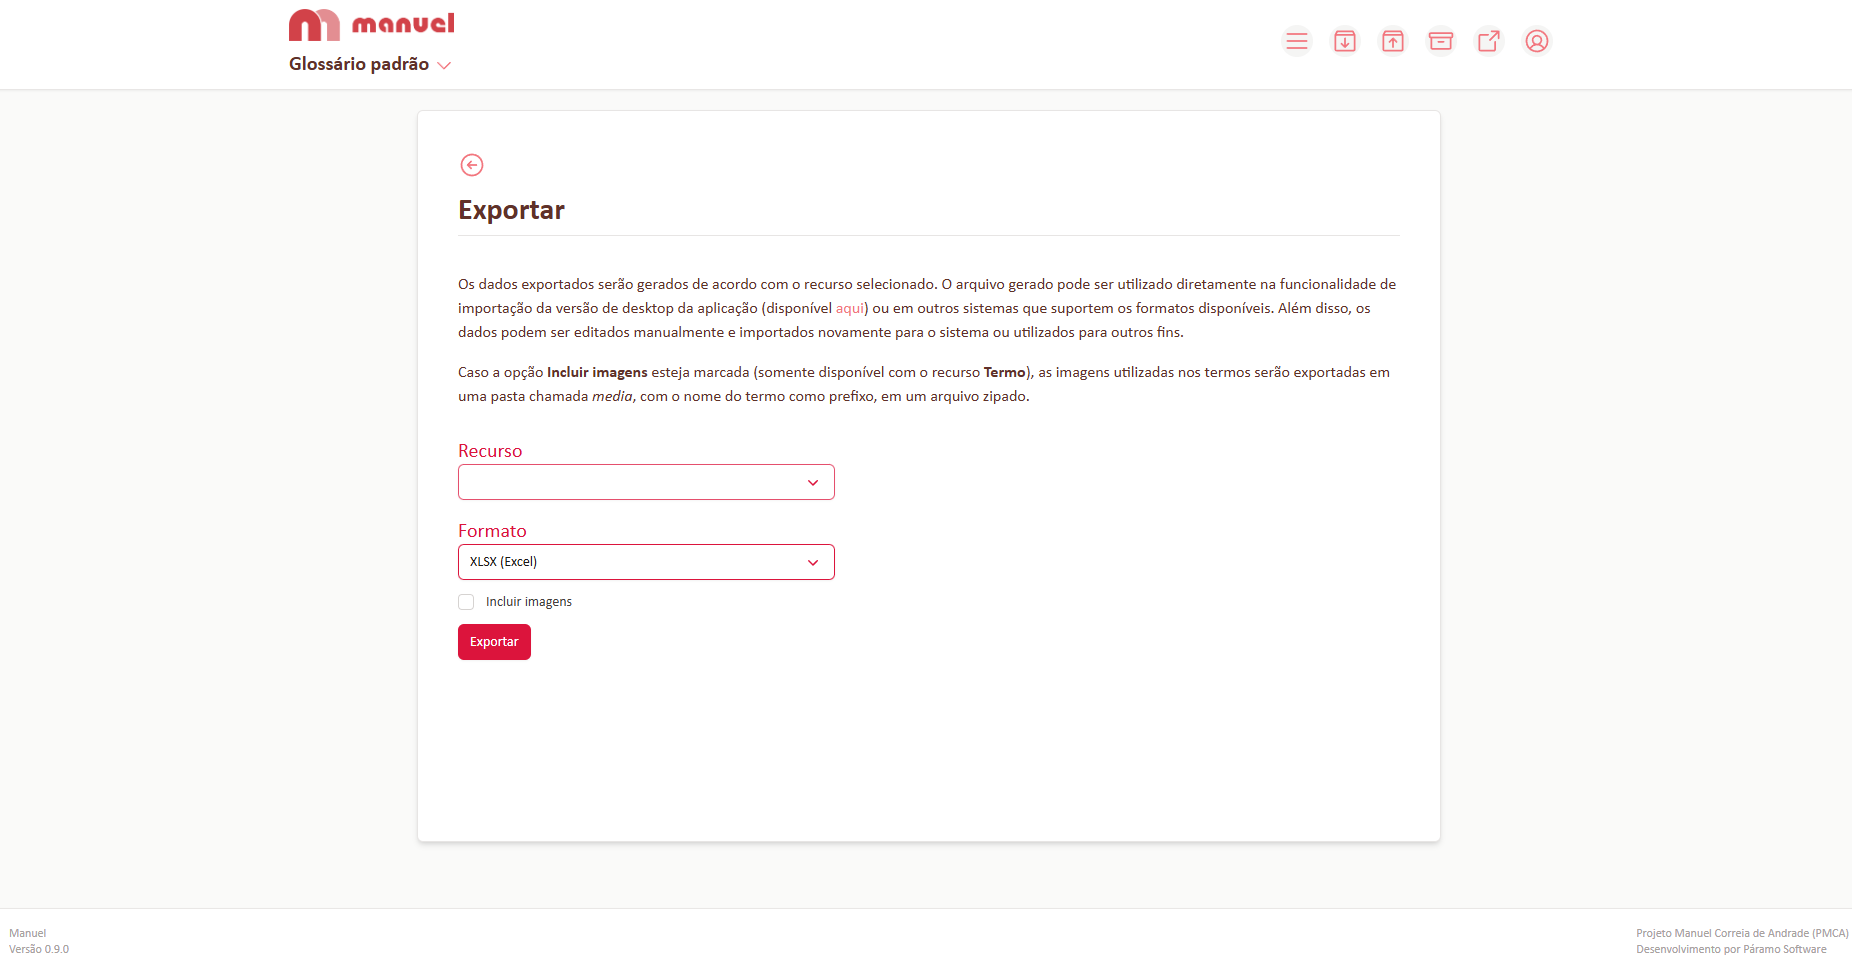
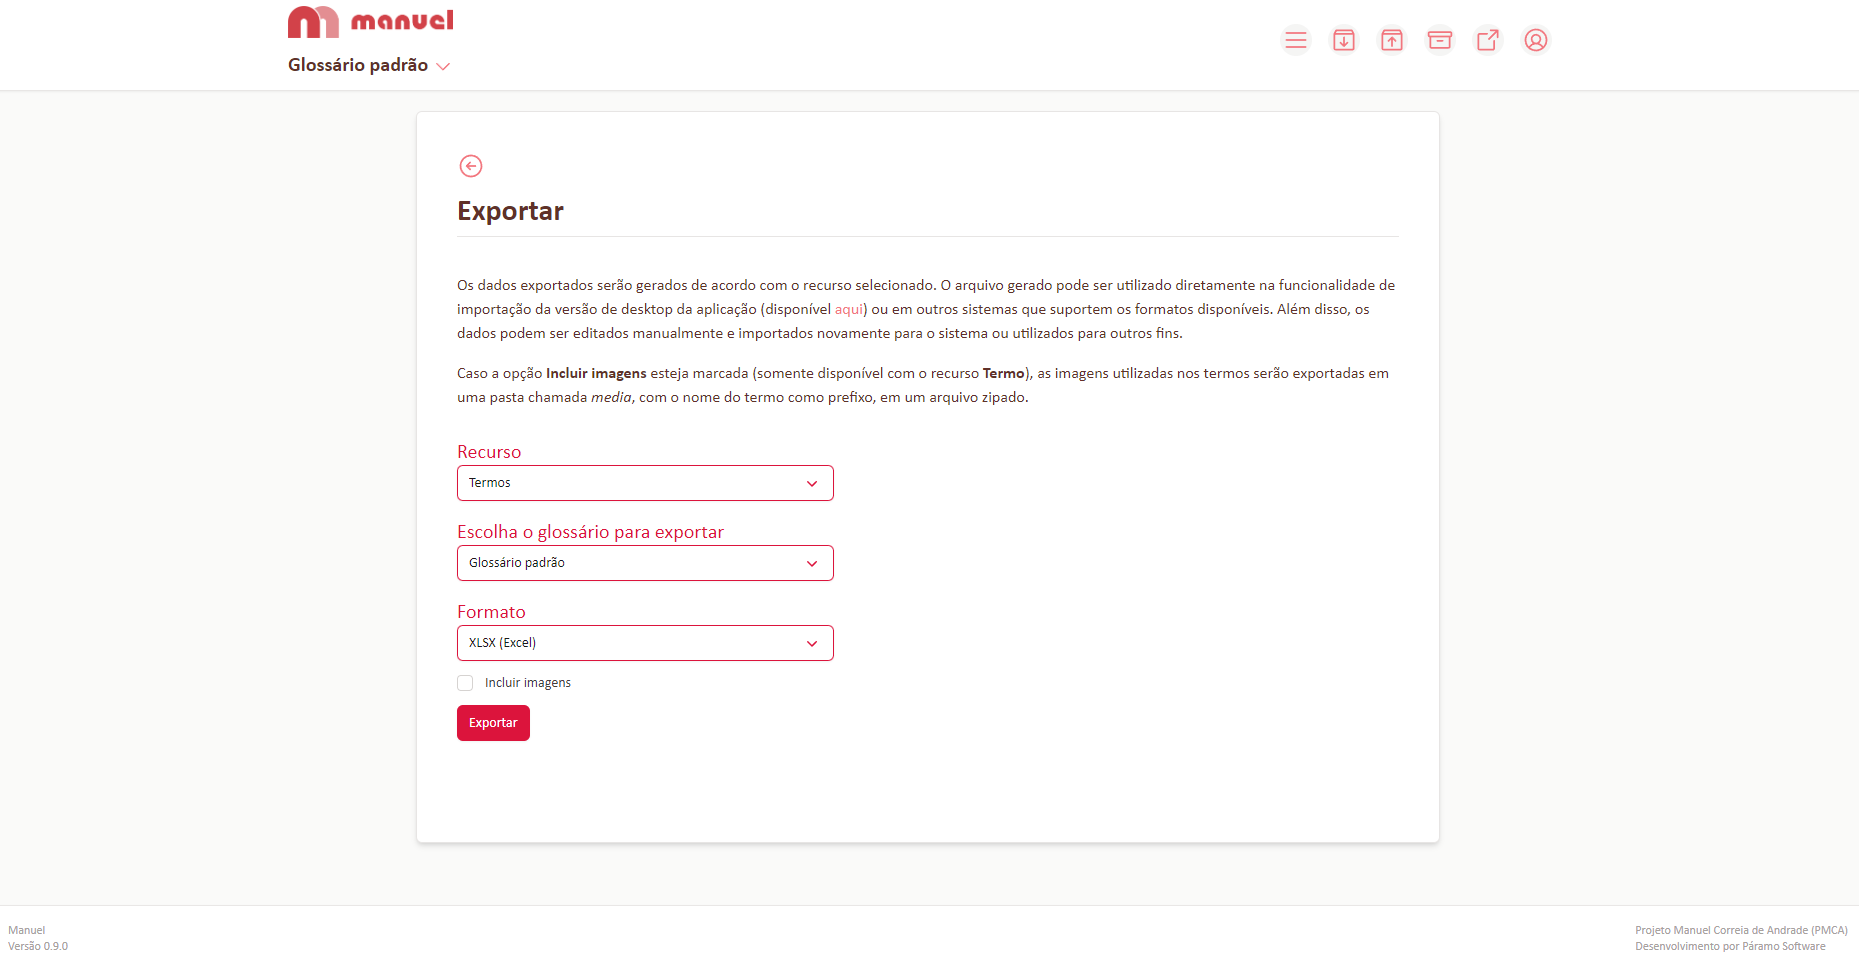
fix: update guide

diff --git a/content/3. Utilizando o Manuel/1. Navegação Interna/3. Telas de Cadastro/2. Telas/1.termos.md b/content/3. Utilizando o Manuel/1. Navegação Interna/3. Telas de Cadastro/2. Telas/1.termos.md
@@ -1,6 +1,18 @@
+---
+title: Termos
+---
+
+# Listagem
+
 Na tela de cadastro de termos temos uma listagem de todos os registros existentes. Também é possível fazer alteraçòes na posição hierárquica dos termos.
 
-![Tela de listagem de termos]()
+![Listagem de termos](media/guide/3-utilizando-o-manuel/1-navegacao-interna/3-telas-de-cadastro/1-telas/1-termos/listagem_termos.png)
+
+# Posição dos termos
+
+É possível também alterar a posição dos termos utilizando o botão de alterar posição.
+
+![Alterar posição](media/guide/3-utilizando-o-manuel/1-navegacao-interna/3-telas-de-cadastro/1-telas/1-termos/alterar_posicao_termos.png)
 
 A tela de cadastro de termos tem a seguinte estrutura de atributos a serem preenchidos na criação de um novo termo.
 
@@ -18,4 +30,4 @@ A tela de cadastro de termos tem a seguinte estrutura de atributos a serem preen
 
 Note que nem todos os atributos são obrigatórios, no caso dos termos, apenas o nome é um atributo obrigatório, pois serve como identificador do termo.
 
-![Tela de criação de termos]()
+![Tela de criação de termos](media/guide/3-utilizando-o-manuel/1-navegacao-interna/3-telas-de-cadastro/1-telas/1-termos/criar_termo.png)

diff --git a/content/3. Utilizando o Manuel/2. Navegação Pública/2. Páginas/2.termos.md b/content/3. Utilizando o Manuel/2. Navegação Pública/2. Páginas/2.termos.md
@@ -1,0 +1,50 @@
+---
+title: Termos (Visualização)
+---
+
+A página de visualização de  [termos](/termos) exibe e possibilita a busca de termos por especificidade.
+
+# Modos de visualização
+
+<br>
+
+# Hierárquica
+
+<br>
+
+![Visualização hierárquica](media/guide/3-utilizando-o-manuel/2-navegacao-publica/2-paginas/2-termos/visualizacao_hierarquica.png)
+
+
+<br>
+
+# Alfabética
+
+<br>
+
+![Visualização alfabética](media/guide/3-utilizando-o-manuel/2-navegacao-publica/2-paginas/2-termos/visualizacao_alfabetica.png)
+
+<br>
+
+# Diagrama
+
+<br>
+
+![Visualização diagrama](media/guide/3-utilizando-o-manuel/2-navegacao-publica/2-paginas/2-termos/visualizacao_diagrama.png)
+
+<br>
+
+# Ações
+
+No região de ações,  algumas opções sempre estão disponíveis. Dentre elas:
+
+<br>
+
+- Copiar link do termo atual
+- Compartilhar no Facebook
+- Compartilhar no Twitter
+- Compartilhar no Whatsapp
+- Exportar o termo selecionado
+
+<br>
+
+![Termo unico](media/guide/3-utilizando-o-manuel/2-navegacao-publica/2-paginas/2-termos/termo_unico.png)

diff --git a/content/3. Utilizando o Manuel/1. Navegação Interna/4. Exportação/1.exportar.md b/content/3. Utilizando o Manuel/1. Navegação Interna/4. Exportação/1.exportar.md
@@ -1,13 +1,17 @@
+---
+title: Como realizar uma exportação
+---
+
 Na exportação todos os termos disponíveis no site serão exportados no formato selecionado.
 
  O arquivo gerado pode ser utilizado diretamente na funcionalidade de importação da versão de desktop da aplicação [(disponível aqui)]() ou em outros sistemas que suportem os formatos disponíveis. Além disso, os dados podem ser editados manualmente e importados novamente para o sistema ou utilizados para outros fins.
 
 # Realizando uma exportação
 
-1 . Selecione o formato de saída desejado
+1 . Selecione o formato de saída desejado e o glossário a ser exportado
 
 2 . Marque a caixa de seleção para incluir imagens na exportação (opcional) 
 
 3 . Aguarde a conclusão da exportação
 
-![Exportação]()
+![Exportação](media/guide/3-utilizando-o-manuel/1-navegacao-interna/4-exportacao/1-como-realizar-exportacao/pagina_exportacao.png)

diff --git a/content/1. Instalação/1.primeiros-passos.md b/content/1. Instalação/1.primeiros-passos.md
@@ -1,7 +1,7 @@
 ---
 title: 'Primeiros passos'
-description: '...'
 ---
+
 A instalação é simplificada e as informações abaixo descrevem os procedimentos a serem tomados.
 
 Antes de começar, certifique-se de que seu sistema tem os requisitos mínimos e que as as dependências a seguir estejam instaladas.
@@ -61,14 +61,5 @@ Requisitos recomendados:
 # Imagens
 
 <br>
-
-| Um | Dois | Tres
-| :---- |:---: | ---:
-| ![teste](https://cdn.pixabay.com/photo/2014/02/27/16/10/flowers-276014_640.jpg "Teste") | ![teste](https://cdn.pixabay.com/photo/2014/02/27/16/10/flowers-276014_640.jpg "Teste") |  ![teste](https://cdn.pixabay.com/photo/2014/02/27/16/10/flowers-276014_640.jpg "Teste") |
-
-
-| Um | Dois |
-| ----- |----- | 
-| ![teste](https://cdn.pixabay.com/photo/2014/02/27/16/10/flowers-276014_640.jpg "Teste") | ![teste](https://cdn.pixabay.com/photo/2014/02/27/16/10/flowers-276014_640.jpg "Teste") |  
 
 

diff --git a/content/2. Conceitos gerais/2-tipos-campo-de-entrada.md b/content/2. Conceitos gerais/2-tipos-campo-de-entrada.md
@@ -1,0 +1,21 @@
+---
+title: Tipos de campos de entrada de informação
+---
+
+# Textual padrão
+
+Campos  textuais padrão são campos regulares onde o usuário pode inserir texto.
+
+![Campo textual padrão](media/guide/2-conceitos-gerais/3-tipos-de-campos-de-entrada/textual_padrao.png)
+
+# Textual com formatação
+
+Campos  textuais com formatação são campos onde o usuário pode inserir texto com formatações específicas ou links.
+
+![Campo textual com formatação](media/guide/2-conceitos-gerais/3-tipos-de-campos-de-entrada/textual_com_formatacao.png)
+
+# Busca textual
+
+Campos de busca textual são campos onde o usuário faz uma busca a um registro existente no glossário. Geralmente o  retorno é usado para atrelar o elemento atual com o que já existe.
+
+![Campo busca textual](media/guide/2-conceitos-gerais/3-tipos-de-campos-de-entrada/busca_textual.png)

diff --git a/content/3. Utilizando o Manuel/1. Navegação Interna/2. Menu de navegação superior/1-utilizar-menu-nav-superior.md b/content/3. Utilizando o Manuel/1. Navegação Interna/2. Menu de navegação superior/1-utilizar-menu-nav-superior.md
@@ -1,4 +1,8 @@
-O meno de navegação superior...
+---
+title: Utilizando o menu de navegação superior
+---
+
+O menu de navegação superior traz uma gama de opções e serve como indicador de navegação. É possível, a partir dele, ser redirecionado para diversos locais da aplicação.
 
 # Opções do menu de navegação superior
 
@@ -11,7 +15,8 @@ O meno de navegação superior...
 | Botão acesso publico    | Redireciona o usuário para a navegação pública  |
 | Botão opções de usuário | Redireciona o usuário para suas opções de usuário |
 
+<br>
 
 # Menu de navegação superior
 
-![Menu de navegação superior]()
+![Menu de navegação superior](media/guide/3-utilizando-o-manuel/1-navegacao-interna/2-menu-navegacao-superior/1-como-utilizar-o-menu-navegacao-superior/menu_navegacao_superior.png)

diff --git a/content/3. Utilizando o Manuel/1. Navegação Interna/3. Telas de Cadastro/2. Telas/5.paginas-web.md b/content/3. Utilizando o Manuel/1. Navegação Interna/3. Telas de Cadastro/2. Telas/5.paginas-web.md
@@ -1,7 +1,11 @@
+---
+title: Páginas Web
+---
+
 | Atributos            | Descrição                                              | Tipo de campo  |
 |----------------------|--------------------------------------------------------|----------------|
 | Nome                 | Define o nome da página web                            | Textual padrão |
 | Conteúdo             | Define o conteúdo textual da página                    | Textual padrão |
 | Nome no menu         | Define o texto que será mostrado no menu de navegação  | Textual padrão |
 
-![Tela de criação de páginas web]()
+![Tela de criação de páginas web](media/guide/3-utilizando-o-manuel/1-navegacao-interna/3-telas-de-cadastro/1-telas/5-paginas-web/criar_pagina_web.png)

diff --git a/content/3. Utilizando o Manuel/1. Navegação Interna/3. Telas de Cadastro/2. Telas/2.glossarios.md b/content/3. Utilizando o Manuel/1. Navegação Interna/3. Telas de Cadastro/2. Telas/2.glossarios.md
@@ -1,3 +1,7 @@
+---
+title: Glossários
+---
+
 A tela de cadastro de glossários tem a seguinte estrutura de atributos a serem preenchidos na criação de um novo glossário.
 
 | Atributos            | Descrição                                      | Tipo de campo  |
@@ -8,4 +12,4 @@ A tela de cadastro de glossários tem a seguinte estrutura de atributos a serem 
 | Palavras-chave       | Descreve um termo                              | Busca textual    |
 | Idioma               | Observações sobre o termo                      | Seleção em caixa |
 
-![Tela de criação de glossários]()
+![Tela de criação de glossários](media/guide/3-utilizando-o-manuel/1-navegacao-interna/3-telas-de-cadastro/1-telas/2-glossarios/criar_glossario.png)

diff --git a/content/3. Utilizando o Manuel/1. Navegação Interna/3. Telas de Cadastro/2. Telas/6.usuarios.md b/content/3. Utilizando o Manuel/1. Navegação Interna/3. Telas de Cadastro/2. Telas/6.usuarios.md
@@ -1,3 +1,7 @@
+---
+title: Usuários
+---
+
 A tela de cadastro de usuários tem a seguinte estrutura de atributos a serem preenchidos na criação de um novo usuário.
 
 
@@ -10,4 +14,4 @@ A tela de cadastro de usuários tem a seguinte estrutura de atributos a serem pr
 | Está bloqueado?      | Define se esse usuário pode ou não acessar o sistema   | Seleção em caixa |
 | Grupo de permissões  | Define o grupo de permissão do usuário                 | Busca textual    |
 
-![Tela de criação de usuários]()
+![Tela de criação de usuários](media/guide/3-utilizando-o-manuel/1-navegacao-interna/3-telas-de-cadastro/1-telas/6-usuarios/criar_usuario.png)

diff --git a/content/3. Utilizando o Manuel/1. Navegação Interna/3. Telas de Cadastro/2. Telas/8.palavras-chave.md b/content/3. Utilizando o Manuel/1. Navegação Interna/3. Telas de Cadastro/2. Telas/8.palavras-chave.md
@@ -1,0 +1,11 @@
+---
+title: Palavras-chave
+---
+
+![Listagem palavras chave](media/guide/3-utilizando-o-manuel/1-navegacao-interna/3-telas-de-cadastro/1-telas/8-palavras-chave/listagem_palavra_chave.png)
+
+| Atributos            | Descrição                                              | Tipo de campo  |
+|----------------------|--------------------------------------------------------|----------------|
+| Nome                 | Define o nome da palavra-chave                         | Textual padrão |
+
+![Criação palavras chave](media/guide/3-utilizando-o-manuel/1-navegacao-interna/3-telas-de-cadastro/1-telas/8-palavras-chave/criar_palavra_chave.png)

diff --git a/content/3. Utilizando o Manuel/1. Navegação Interna/3. Telas de Cadastro/2. Telas/7.grupos-de-permissoes.md b/content/3. Utilizando o Manuel/1. Navegação Interna/3. Telas de Cadastro/2. Telas/7.grupos-de-permissoes.md
@@ -1,0 +1,25 @@
+---
+title: Grupos de permissões
+---
+
+A tela de grupos de permissão exibe os grupos existentes no sistema.
+
+![Lista grupo de permissões](media/guide/3-utilizando-o-manuel/1-navegacao-interna/3-telas-de-cadastro/1-telas/7-grupos-de-permissoes/listar_grupos_de_permissoes.png)
+
+# Grupos de permissão padrão
+
+1. Administradores
+2. Cadastradores
+3. Editores
+
+# Permissões
+
+- Ler
+- Criar
+- Editar
+- Excluir
+- Importar
+- Ação em lote
+
+
+![Tela de criação de permissões](media/guide/3-utilizando-o-manuel/1-navegacao-interna/3-telas-de-cadastro/1-telas/7-grupos-de-permissoes/criar_grupo_de_permissao.png)

diff --git a/content/3. Utilizando o Manuel/1. Navegação Interna/3. Telas de Cadastro/2. Telas/4.idiomas.md b/content/3. Utilizando o Manuel/1. Navegação Interna/3. Telas de Cadastro/2. Telas/4.idiomas.md
@@ -1,3 +1,7 @@
+---
+title: Idiomas
+---
+
 A tela de cadastro de [idiomas](/idioma) tem a seguinte estrutura de atributos a serem preenchidos na criação.
 
 
@@ -6,4 +10,4 @@ A tela de cadastro de [idiomas](/idioma) tem a seguinte estrutura de atributos a
 | Nome                 | Descreve o nome do idioma                        | Textual padrão |
 | Código do idioma     | Define um código de identificação para o idioma  | Textual padrão |
 
-![Tela de criação de idiomas]()
+![Tela de criação de idiomas](media/guide/3-utilizando-o-manuel/1-navegacao-interna/3-telas-de-cadastro/1-telas/4-idiomas/criar_idioma.png)
